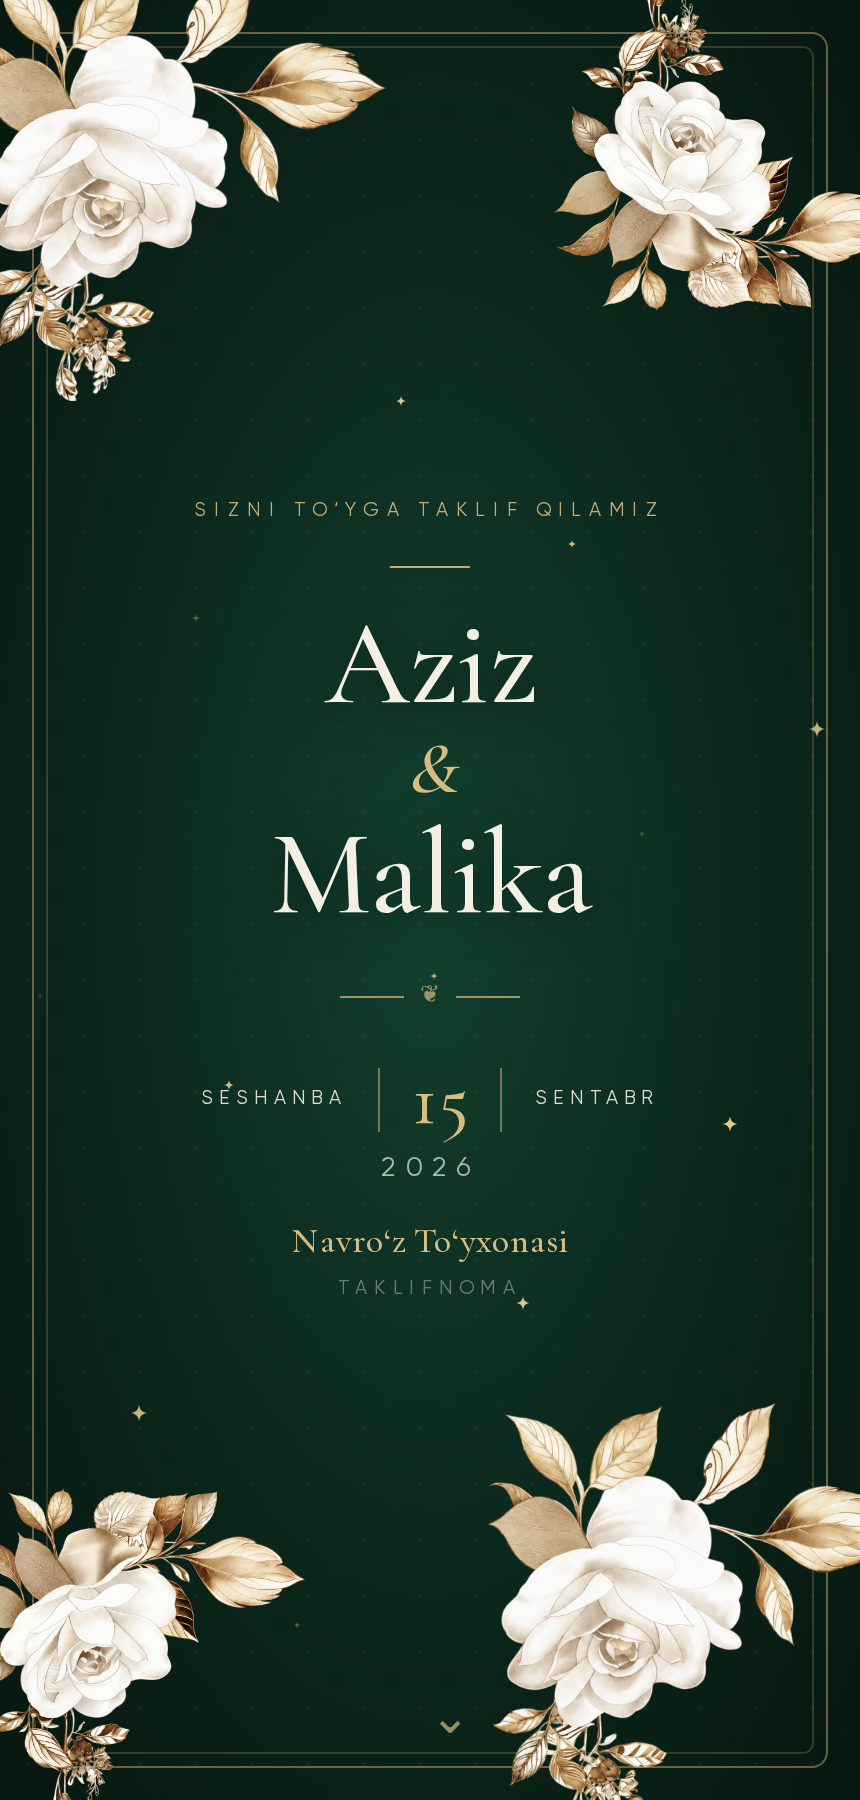
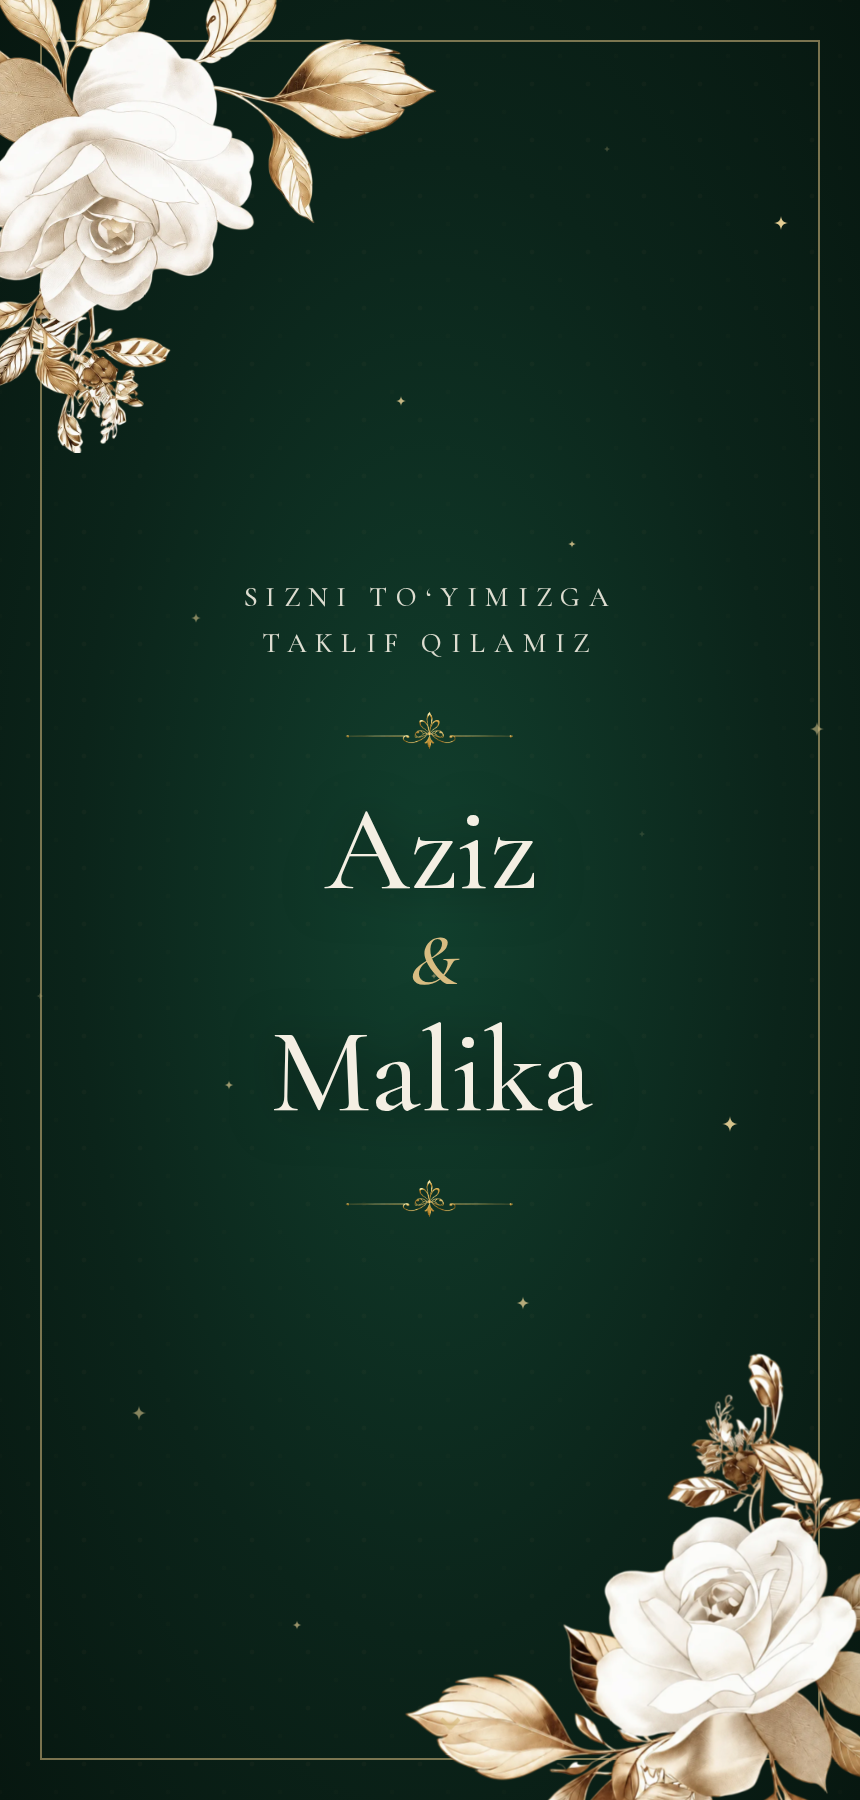
feat(web): Royal hero — royal-v2-green demoga aynan moslash
Hero endi demodagidek:
- DIAGONAL ikki buket (yuqori-chap flower-1 + pastki-o'rng flower-2),
  4 burchak o'rniga — ramka ustidan oshib chiqadi
- Bitta ingichka oltin ramka
- Ismlar tepasi va pastida oltin fleur-ajratgich (flower-7)
- Sana bloki hero'dan olindi → marosim bo'limiga (hafta-kuni | kun | oy / yil)
- Sana yordamchisi alohida faylga: royalDate.ts (DRY)

Claude-Session: https://claude.ai/code/session_01WLQetfb3Wir1SCRAzAF6Nj

diff --git a/apps/web/src/templates/royal/RoyalHero.tsx b/apps/web/src/templates/royal/RoyalHero.tsx
@@ -8,39 +8,24 @@ import { RoyalStars } from './RoyalStars';
 interface RoyalHeroProps {
   readonly groom: string;
   readonly bride: string;
-  readonly kicker: string;
   readonly eyebrow: string;
-  readonly weekday: string;
-  readonly day: string;
-  readonly month: string;
-  readonly year: string;
-  readonly venue?: string;
 }
 
 /**
- * Royal hero — to'q zumrad fon, oltin ichki ramka, to'rt burchakda oq atirgul
- * buketlari (parallax bilan sekin siljiydi), markazda fil-suyagi serifda ismlar,
- * fonda miltillovchi oltin yulduzchalar (royal-v2-green uslubi).
+ * Royal hero — royal-v2-green demoga aynan moslangan:
+ * to'q zumrad fon, bitta ingichka oltin ramka, DIAGONAL ikki oq atirgul buketi
+ * (yuqori-chap + pastki-o'ng, ramkadan oshib chiqadi), markazda "taklif" matni,
+ * ismlar tepasi va pastida oltin fleur-ajratgich (flower-7).
  */
-export function RoyalHero({
-  groom,
-  bride,
-  kicker,
-  eyebrow,
-  weekday,
-  day,
-  month,
-  year,
-  venue,
-}: RoyalHeroProps): ReactNode {
+export function RoyalHero({ groom, bride, eyebrow }: RoyalHeroProps): ReactNode {
   const ref = useRef<HTMLElement>(null);
   const reduce = useReducedMotion();
   const { scrollYProgress } = useScroll({ target: ref, offset: ['start start', 'end start'] });
 
-  const cornerOut = useTransform(scrollYProgress, [0, 1], ['0%', '18%']);
-  const cornerOutNeg = useTransform(scrollYProgress, [0, 1], ['0%', '-18%']);
-  const contentY = useTransform(scrollYProgress, [0, 1], ['0%', '-10%']);
-  const contentOpacity = useTransform(scrollYProgress, [0, 0.8], [1, 0]);
+  const cornerTL = useTransform(scrollYProgress, [0, 1], ['0%', '-16%']);
+  const cornerBR = useTransform(scrollYProgress, [0, 1], ['0%', '16%']);
+  const contentY = useTransform(scrollYProgress, [0, 1], ['0%', '-8%']);
+  const contentOpacity = useTransform(scrollYProgress, [0, 0.85], [1, 0]);
 
   const off = reduce || undefined;
 
@@ -52,91 +37,61 @@ export function RoyalHero({
       {/* to'q zumrad fon + markaziy yorug'lik */}
       <div
         aria-hidden
-        className="absolute inset-0 -z-0 bg-[radial-gradient(ellipse_at_center,#12402e_0%,#0b241a_60%,#071710_100%)]"
+        className="absolute inset-0 -z-0 bg-[radial-gradient(ellipse_at_center,#12402e_0%,#0b241a_58%,#071710_100%)]"
       />
-      <div aria-hidden className="pattern-soft-dark absolute inset-0 -z-0 opacity-40" />
+      <div aria-hidden className="pattern-soft-dark absolute inset-0 -z-0 opacity-30" />
 
       {/* miltillovchi yulduzchalar */}
       <RoyalStars />
 
-      {/* oltin ichki ramka */}
+      {/* bitta ingichka oltin ramka */}
       <div
         aria-hidden
-        className="pointer-events-none absolute inset-4 rounded-[0.5rem] border border-gold-light/45 sm:inset-6"
-      >
-        <span className="absolute inset-[6px] rounded-[0.35rem] border border-gold-light/20" />
-      </div>
+        className="pointer-events-none absolute inset-5 z-0 border border-gold-light/55 sm:inset-8"
+      />
 
-      {/* Burchak buketlari (parallax) */}
+      {/* Diagonal ikki buket (ramka ustidan oshadi) */}
       <motion.div
         aria-hidden
-        style={off ? undefined : { x: cornerOutNeg, y: cornerOutNeg }}
-        className="pointer-events-none absolute -left-6 -top-6 h-[52vw] max-h-[420px] min-h-[220px] w-[52vw] min-w-[220px] max-w-[420px]"
+        style={off ? undefined : { x: cornerTL, y: cornerTL }}
+        className="pointer-events-none absolute -left-8 -top-8 z-10 h-[60vw] max-h-[460px] min-h-[240px] w-[60vw] min-w-[240px] max-w-[460px]"
       >
         <Bloom n={1} className="h-full w-full origin-top-left animate-[sway_9s_ease-in-out_infinite]" />
       </motion.div>
       <motion.div
         aria-hidden
-        style={off ? undefined : { x: cornerOut, y: cornerOutNeg }}
-        className="pointer-events-none absolute -right-6 -top-6 h-[42vw] max-h-[340px] min-h-[170px] w-[42vw] min-w-[170px] max-w-[340px]"
+        style={off ? undefined : { x: cornerBR, y: cornerBR }}
+        className="pointer-events-none absolute -bottom-8 -right-8 z-10 h-[62vw] max-h-[480px] min-h-[250px] w-[62vw] min-w-[250px] max-w-[480px]"
       >
-        <Bloom n={2} flipX className="h-full w-full" />
-      </motion.div>
-      <motion.div
-        aria-hidden
-        style={off ? undefined : { x: cornerOutNeg, y: cornerOut }}
-        className="pointer-events-none absolute -bottom-6 -left-6 h-[42vw] max-h-[340px] min-h-[170px] w-[42vw] min-w-[170px] max-w-[340px]"
-      >
-        <Bloom n={2} flipX flipY className="h-full w-full" />
-      </motion.div>
-      <motion.div
-        aria-hidden
-        style={off ? undefined : { x: cornerOut, y: cornerOut }}
-        className="pointer-events-none absolute -bottom-6 -right-6 h-[52vw] max-h-[420px] min-h-[220px] w-[52vw] min-w-[220px] max-w-[420px]"
-      >
-        <Bloom n={1} flipX flipY className="h-full w-full origin-bottom-right animate-[sway_10s_ease-in-out_infinite]" />
+        <Bloom n={2} className="h-full w-full origin-bottom-right animate-[sway_10s_ease-in-out_infinite]" />
       </motion.div>
 
       {/* Markaziy matn */}
       <motion.div
         style={off ? undefined : { y: contentY, opacity: contentOpacity }}
-        className="relative z-20 flex flex-col items-center px-8 text-center"
+        className="relative z-20 flex flex-col items-center px-10 text-center"
       >
-        <p className="max-w-[15rem] text-[0.6rem] uppercase leading-relaxed tracking-[0.4em] text-gold-light/90 sm:text-xs">
+        <p className="max-w-[16rem] font-display text-sm uppercase leading-relaxed tracking-[0.3em] text-ivory/90 sm:text-base">
           {eyebrow}
         </p>
-        <span className="gold-shimmer my-5 block h-px w-10 bg-gold-light" />
 
-        <div className="animate-draw-in">
-          <h1 className="font-display text-6xl font-medium leading-[0.95] text-ivory drop-shadow-[0_2px_10px_rgba(0,0,0,0.5)] sm:text-8xl">
+        {/* oltin fleur-ajratgich (tepada) */}
+        <Bloom n={7} className="mt-5 h-6 w-52 sm:w-64" />
+
+        <div className="my-4 animate-draw-in">
+          <h1 className="font-display text-6xl font-medium leading-[1.05] text-ivory drop-shadow-[0_2px_12px_rgba(0,0,0,0.5)] sm:text-8xl">
             {groom}
           </h1>
           <span className="my-1 block font-display text-4xl italic text-gold-light sm:text-5xl">
             &amp;
           </span>
-          <h1 className="font-display text-6xl font-medium leading-[0.95] text-ivory drop-shadow-[0_2px_10px_rgba(0,0,0,0.5)] sm:text-8xl">
+          <h1 className="font-display text-6xl font-medium leading-[1.05] text-ivory drop-shadow-[0_2px_12px_rgba(0,0,0,0.5)] sm:text-8xl">
             {bride}
           </h1>
         </div>
 
-        <span className="mt-6 flex items-center gap-2 text-gold-light/70">
-          <span className="h-px w-8 bg-current" />
-          <span className="text-xs">❦</span>
-          <span className="h-px w-8 bg-current" />
-        </span>
-
-        {/* Sana bloki — SHANBA | 16 | MAY / 2026 */}
-        <div className="mt-6 flex items-center gap-4 text-ivory/90">
-          <span className="text-[0.6rem] uppercase tracking-[0.3em] sm:text-xs">{weekday}</span>
-          <span className="h-8 w-px bg-gold-light/50" />
-          <span className="font-display text-4xl text-gold-light">{day}</span>
-          <span className="h-8 w-px bg-gold-light/50" />
-          <span className="text-[0.6rem] uppercase tracking-[0.3em] sm:text-xs">{month}</span>
-        </div>
-        <p className="mt-1 text-sm tracking-[0.3em] text-ivory/70">{year}</p>
-
-        {venue ? <p className="mt-3 font-display text-lg text-gold-light">{venue}</p> : null}
-        <p className="mt-1 text-[0.6rem] uppercase tracking-[0.35em] text-ivory/40">{kicker}</p>
+        {/* oltin fleur-ajratgich (pastda) */}
+        <Bloom n={7} className="mt-1 h-6 w-52 sm:w-64" />
       </motion.div>
 
       {/* scroll ishorasi */}

diff --git a/apps/web/src/templates/royal/RoyalTemplate.tsx b/apps/web/src/templates/royal/RoyalTemplate.tsx
@@ -5,42 +5,6 @@ import { RoyalCover } from './RoyalCover';
 import { RoyalHero } from './RoyalHero';
 import { RoyalBody } from './RoyalBody';
 
-const WEEKDAYS: Record<string, readonly string[]> = {
-  uz: ['Yakshanba', 'Dushanba', 'Seshanba', 'Chorshanba', 'Payshanba', 'Juma', 'Shanba'],
-  ru: ['Воскресенье', 'Понедельник', 'Вторник', 'Среда', 'Четверг', 'Пятница', 'Суббота'],
-};
-const MONTHS: Record<string, readonly string[]> = {
-  uz: [
-    'Yanvar', 'Fevral', 'Mart', 'Aprel', 'May', 'Iyun',
-    'Iyul', 'Avgust', 'Sentabr', 'Oktabr', 'Noyabr', 'Dekabr',
-  ],
-  ru: [
-    'Январь', 'Февраль', 'Март', 'Апрель', 'Май', 'Июнь',
-    'Июль', 'Август', 'Сентябрь', 'Октябрь', 'Ноябрь', 'Декабрь',
-  ],
-};
-
-/** eventDate (YYYY-MM-DD) → hafta kuni / kun / oy / yil (til bo'yicha). */
-function dateParts(eventDate: string, locale: string): {
-  weekday: string;
-  day: string;
-  month: string;
-  year: string;
-} {
-  const loc = locale === 'ru' ? 'ru' : 'uz';
-  const parts = eventDate.split('-');
-  const y = Number(parts[0]) || new Date().getUTCFullYear();
-  const m = Number(parts[1]) || 1;
-  const d = Number(parts[2]) || 1;
-  const dt = new Date(Date.UTC(y, m - 1, d));
-  return {
-    weekday: WEEKDAYS[loc]?.[dt.getUTCDay()] ?? '',
-    day: String(d).padStart(2, '0'),
-    month: MONTHS[loc]?.[m - 1] ?? '',
-    year: String(y),
-  };
-}
-
 /**
  * Royal — to'q zumrad + oltin + oq atirgul premium shablon (chungdoi
  * royal-v2-green uslubi): konvert ochilishi → parallax gulli hero (miltillovchi
@@ -53,8 +17,7 @@ export function RoyalTemplate({ invitation }: TemplateProps): ReactNode {
     .filter(Boolean)
     .join(' · ');
   const kicker = ru ? 'Приглашение' : 'Taklifnoma';
-  const eyebrow = ru ? 'Приглашаем вас на свадьбу' : 'Sizni to‘yga taklif qilamiz';
-  const dp = dateParts(invitation.eventDate, invitation.locale);
+  const eyebrow = ru ? 'Приглашаем вас на нашу свадьбу' : 'Sizni to‘yimizga taklif qilamiz';
 
   return (
     <RoyalCover
@@ -67,17 +30,7 @@ export function RoyalTemplate({ invitation }: TemplateProps): ReactNode {
       invitedSuffix={ru ? 'приглашаем вас на нашу свадьбу' : 'sizni to‘yimizga taklif qilamiz'}
     >
       <main className="min-h-screen bg-emerald-deep text-ivory">
-        <RoyalHero
-          groom={invitation.groomName}
-          bride={invitation.brideName}
-          kicker={kicker}
-          eyebrow={eyebrow}
-          weekday={dp.weekday}
-          day={dp.day}
-          month={dp.month}
-          year={dp.year}
-          venue={invitation.venue?.name}
-        />
+        <RoyalHero groom={invitation.groomName} bride={invitation.brideName} eyebrow={eyebrow} />
         <div className="pattern-soft-dark">
           <RoyalBody invitation={invitation} />
         </div>

diff --git a/apps/web/src/templates/royal/RoyalBody.tsx b/apps/web/src/templates/royal/RoyalBody.tsx
@@ -9,9 +9,9 @@ import { AddToCalendar } from '@/widgets/calendar/AddToCalendar';
 import { GiftBox } from '@/widgets/gift/GiftBox';
 import { WishesWall } from '@/widgets/wishes/WishesWall';
 import { RsvpForm } from '@/features/submit-rsvp/RsvpForm';
-import { formatEventDate, formatEventTime } from '@/shared/lib/format';
 import { Bloom } from './RoyalFlora';
 import { RoyalDivider } from './RoyalDivider';
+import { dateParts } from './royalDate';
 
 interface RoyalBodyProps {
   readonly invitation: Invitation;
@@ -56,9 +56,7 @@ function SideSpray({ side }: { readonly side: 'left' | 'right' }): ReactNode {
 export async function RoyalBody({ invitation }: RoyalBodyProps): Promise<ReactNode> {
   const m = getMessages(invitation.locale).web;
   const ru = invitation.locale === 'ru';
-  const dateLine = [formatEventDate(invitation.eventDate), formatEventTime(invitation.eventTime)]
-    .filter(Boolean)
-    .join(' · ');
+  const dp = dateParts(invitation.eventDate, invitation.locale);
 
   const t = {
     ceremony: ru ? 'Церемония' : 'Nikoh marosimi',
@@ -118,9 +116,24 @@ export async function RoyalBody({ invitation }: RoyalBodyProps): Promise<ReactNo
             <p className="mt-2 font-display text-4xl text-ivory sm:text-5xl">
               {invitation.brideName}
             </p>
-            <p className="mt-6 text-sm uppercase tracking-[0.25em] text-ivory/75">{dateLine}</p>
+            {/* Sana bloki — HAFTA-KUNI | KUN | OY / YIL */}
+            <div className="mt-7 flex items-center justify-center gap-4 text-ivory/90">
+              <span className="text-[0.65rem] uppercase tracking-[0.28em] sm:text-xs">
+                {dp.weekday}
+              </span>
+              <span className="h-9 w-px bg-gold-light/50" />
+              <span className="font-display text-4xl text-gold-light">{dp.day}</span>
+              <span className="h-9 w-px bg-gold-light/50" />
+              <span className="text-[0.65rem] uppercase tracking-[0.28em] sm:text-xs">
+                {dp.month}
+              </span>
+            </div>
+            <p className="mt-1 text-sm tracking-[0.3em] text-ivory/70">
+              {dp.year}
+              {invitation.eventTime ? ` · ${invitation.eventTime}` : ''}
+            </p>
             {invitation.venue?.name ? (
-              <p className="mt-2 text-lg text-gold-light">{invitation.venue.name}</p>
+              <p className="mt-3 text-lg text-gold-light">{invitation.venue.name}</p>
             ) : null}
             {invitation.venue?.address ? (
               <p className="mt-1 text-sm text-ivory/55">{invitation.venue.address}</p>

diff --git a/apps/web/src/templates/royal/royalDate.ts b/apps/web/src/templates/royal/royalDate.ts
@@ -1,0 +1,37 @@
+const WEEKDAYS: Record<string, readonly string[]> = {
+  uz: ['Yakshanba', 'Dushanba', 'Seshanba', 'Chorshanba', 'Payshanba', 'Juma', 'Shanba'],
+  ru: ['Воскресенье', 'Понедельник', 'Вторник', 'Среда', 'Четверг', 'Пятница', 'Суббота'],
+};
+const MONTHS: Record<string, readonly string[]> = {
+  uz: [
+    'Yanvar', 'Fevral', 'Mart', 'Aprel', 'May', 'Iyun',
+    'Iyul', 'Avgust', 'Sentabr', 'Oktabr', 'Noyabr', 'Dekabr',
+  ],
+  ru: [
+    'Январь', 'Февраль', 'Март', 'Апрель', 'Май', 'Июнь',
+    'Июль', 'Август', 'Сентябрь', 'Октябрь', 'Ноябрь', 'Декабрь',
+  ],
+};
+
+export interface DateParts {
+  readonly weekday: string;
+  readonly day: string;
+  readonly month: string;
+  readonly year: string;
+}
+
+/** eventDate (YYYY-MM-DD) → hafta kuni / kun / oy / yil (til bo'yicha). */
+export function dateParts(eventDate: string, locale: string): DateParts {
+  const loc = locale === 'ru' ? 'ru' : 'uz';
+  const parts = eventDate.split('-');
+  const y = Number(parts[0]) || new Date().getUTCFullYear();
+  const m = Number(parts[1]) || 1;
+  const d = Number(parts[2]) || 1;
+  const dt = new Date(Date.UTC(y, m - 1, d));
+  return {
+    weekday: WEEKDAYS[loc]?.[dt.getUTCDay()] ?? '',
+    day: String(d).padStart(2, '0'),
+    month: MONTHS[loc]?.[m - 1] ?? '',
+    year: String(y),
+  };
+}
